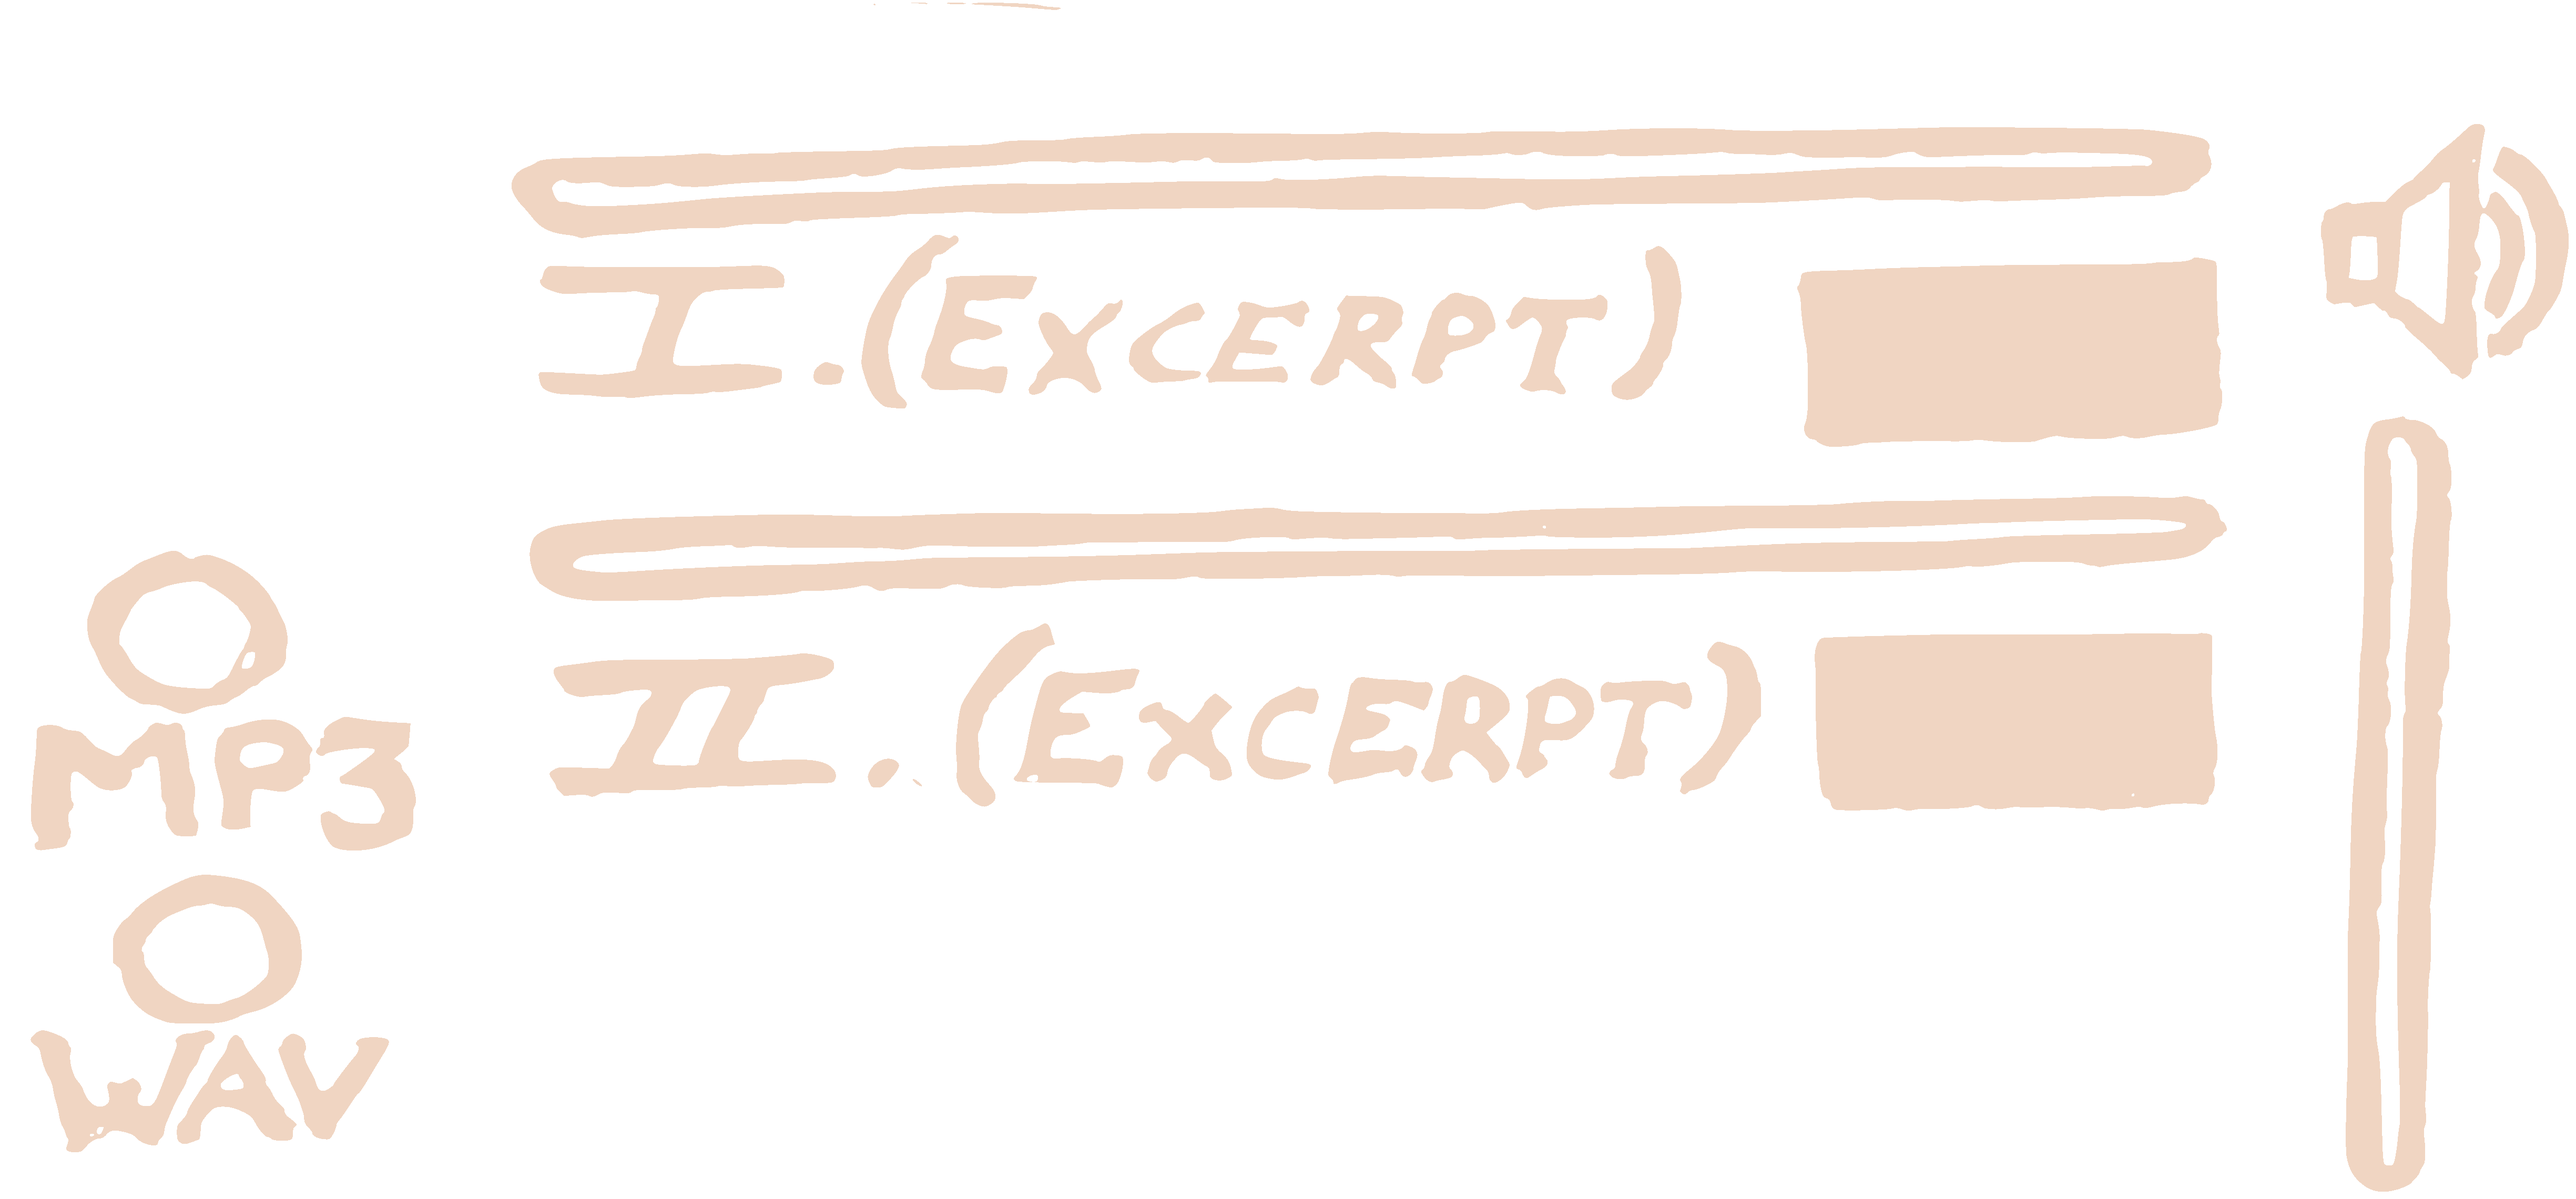
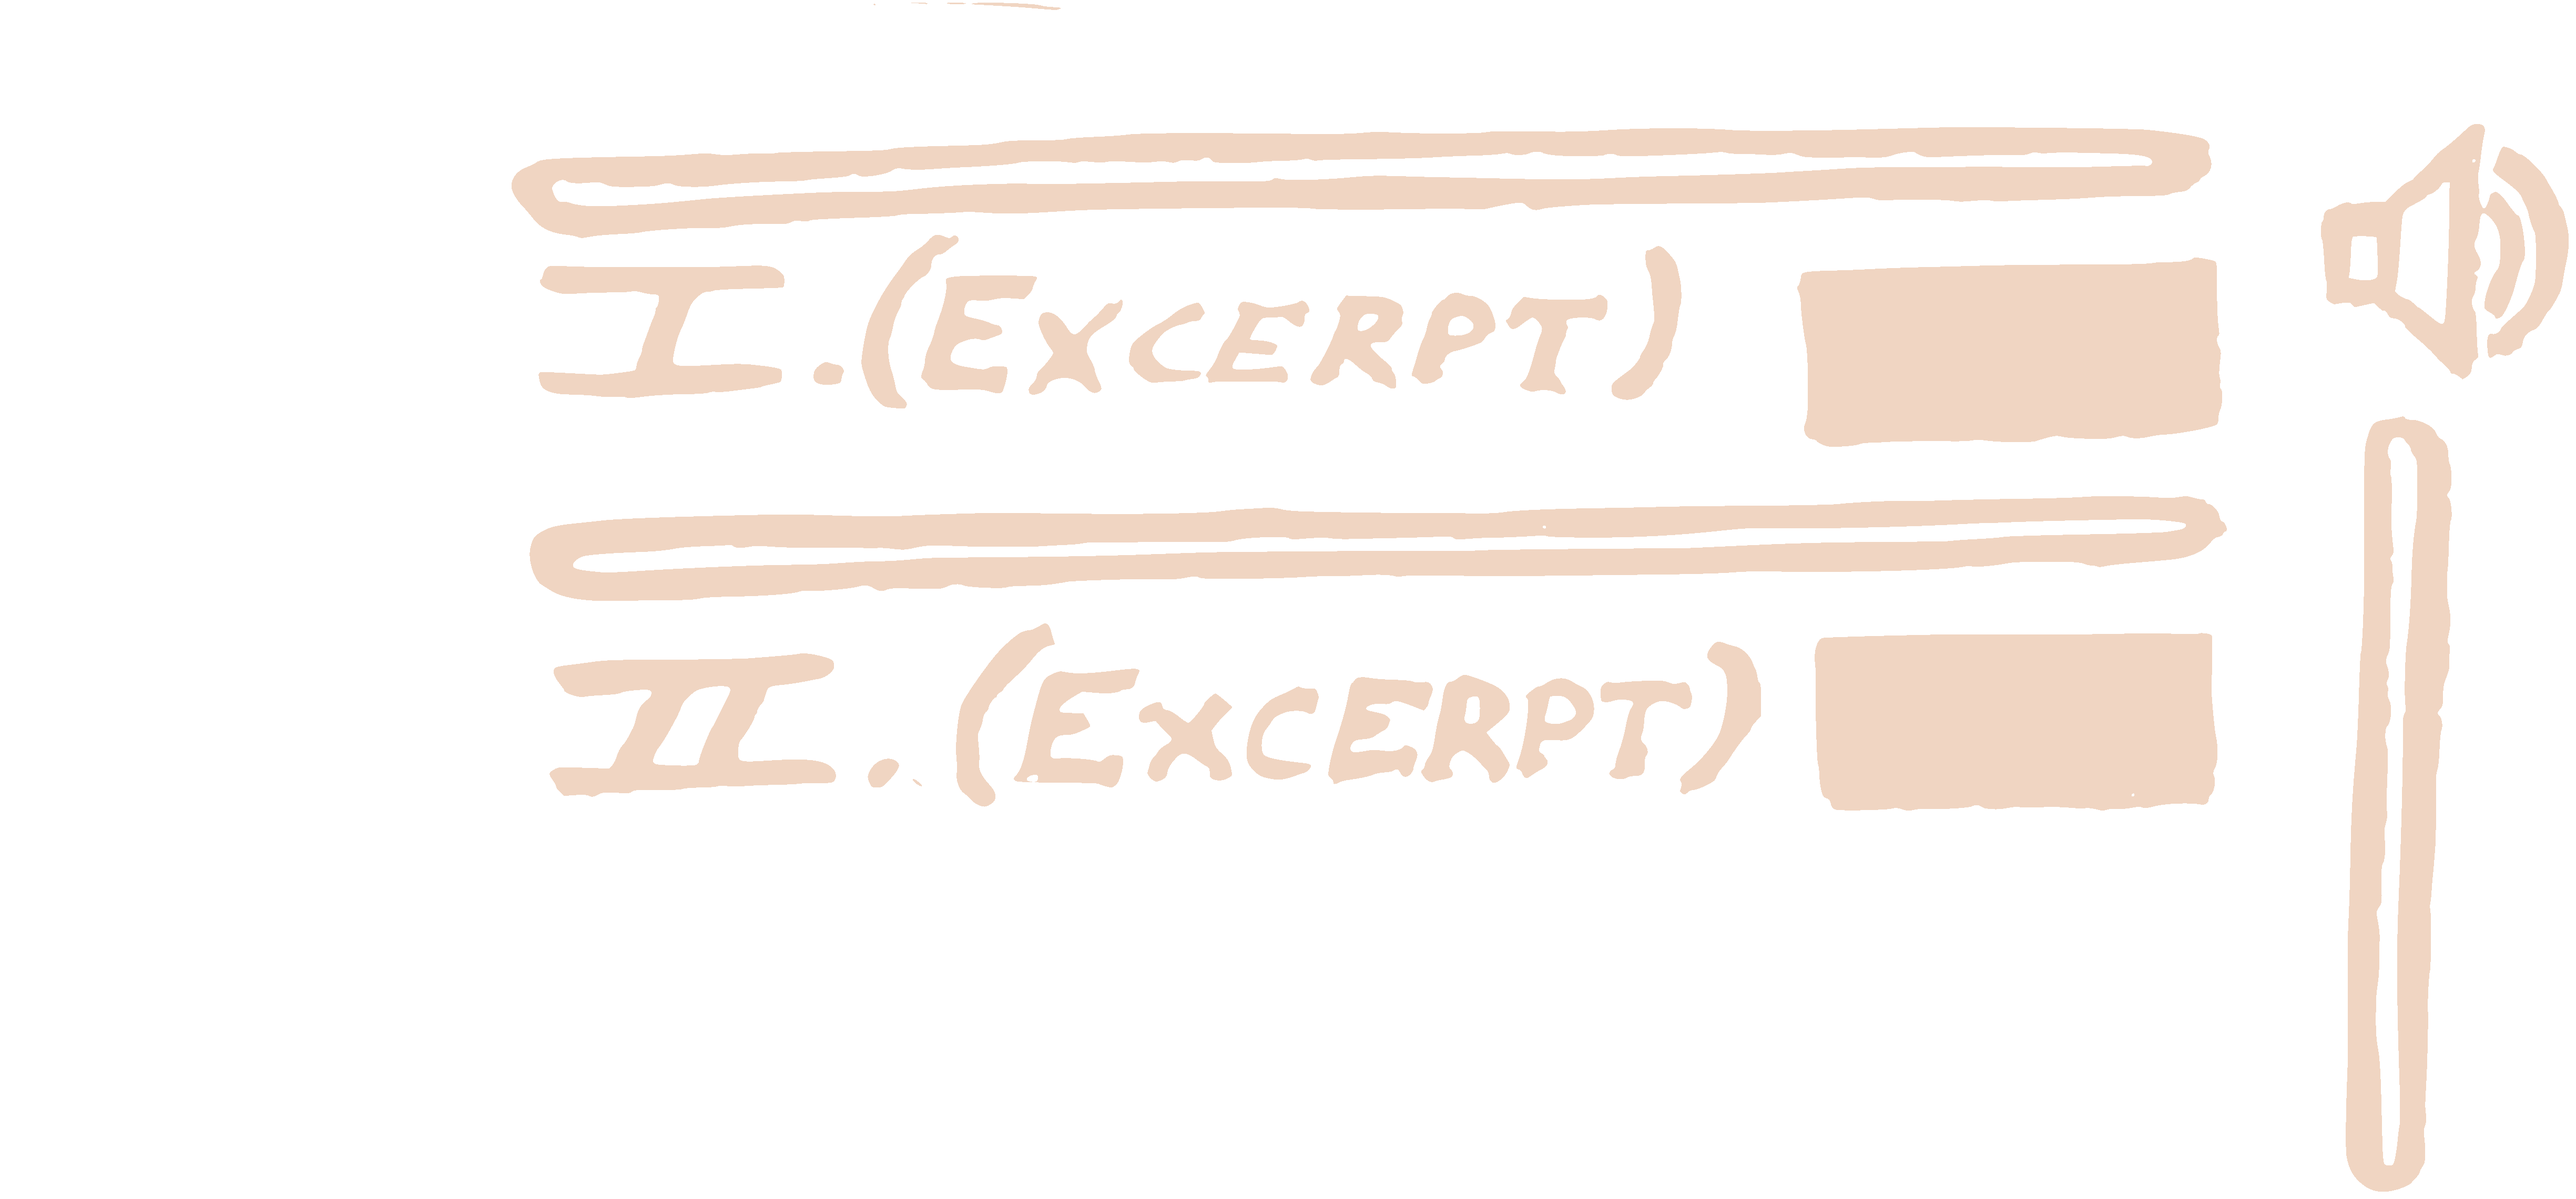
Move MP3/WAV selector to a horizontal row at the bottom; space out play buttons
Extract the MP3/WAV circle ring and the two word labels as standalone
assets, erase them from np-panel.png, and lay them out side by side
in the free strip at the bottom of the player instead of the cramped
vertical column on the left edge. That column's removal also frees
room to move the per-track play/pause buttons further from their
track rows for clearer separation.

Changed region(s): [[0.0, 0.4669, 0.1874, 0.9649]]

diff --git a/styles.css b/styles.css
@@ -424,10 +424,10 @@ nav.menu a:hover, nav.menu a:focus-visible { opacity: .6; }
   position: absolute; width: 7%; height: 16%;
   margin: 0; padding: 0; border: 0; background: none; cursor: pointer;
 }
-.new-player-playhit1 { left: 12.11%; top: 8.85%; }
-.new-player-playhit2 { left: 13.19%; top: 39.84%; }
-.new-player-play-icon1, .new-player-pause-icon1 { position: absolute; left: 12.11%; top: 8.85%; width: 7.56%; pointer-events: none; }
-.new-player-play-icon2, .new-player-pause-icon2 { position: absolute; left: 13.19%; top: 39.84%; width: 7.56%; pointer-events: none; }
+.new-player-playhit1 { left: 2.5%; top: 8.85%; }
+.new-player-playhit2 { left: 2.5%; top: 39.84%; }
+.new-player-play-icon1, .new-player-pause-icon1 { position: absolute; left: 2.5%; top: 8.85%; width: 7.56%; pointer-events: none; }
+.new-player-play-icon2, .new-player-pause-icon2 { position: absolute; left: 2.5%; top: 39.84%; width: 7.56%; pointer-events: none; }
 .new-player-pause-icon1, .new-player-pause-icon2 { display: none; }
 .new-player.is-playing1 .new-player-play-icon1 { display: none; }
 .new-player.is-playing1 .new-player-pause-icon1 { display: block; }
@@ -455,17 +455,26 @@ nav.menu a:hover, nav.menu a:focus-visible { opacity: .6; }
 }
 .new-player-counter1 { left: 69.85%; top: 21.21%; width: 16.53%; height: 15.87%; }
 .new-player-counter2 { left: 70.52%; top: 52.76%; width: 15.68%; height: 14.89%; }
+/* MP3/WAV déplacés : la colonne verticale à gauche touchait le bord
+   où le motif du cadre empiète - repris en une rangée horizontale en
+   bas du lecteur, là où il y a de la place libre. */
 .new-player-mp3, .new-player-wav {
   position: absolute; margin: 0; padding: 0; border: 0; background: none; cursor: pointer;
 }
-.new-player-mp3 { left: 0.24%; top: 44.26%; width: 11.88%; height: 27.66%; }
-.new-player-wav { left: 0.24%; top: 71.92%; width: 12.42%; height: 25.45%; }
+.new-player-mp3 { left: 4%; top: 84%; width: 19%; height: 11.5%; }
+.new-player-wav { left: 49%; top: 84%; width: 19%; height: 11.5%; }
+.new-player-ring { position: absolute; width: 5.2%; pointer-events: none; }
+.new-player-mp3-ring { left: 5%; top: 85.5%; }
+.new-player-wav-ring { left: 50%; top: 85.5%; }
+.new-player-label { position: absolute; pointer-events: none; }
+.new-player-mp3-label { left: 11.2%; top: 85.5%; width: 11.72%; }
+.new-player-wav-label { left: 56.2%; top: 85.5%; width: 11.92%; }
 .new-player-dot {
-  position: absolute; width: 8.62%; pointer-events: none; display: none;
+  position: absolute; width: 5.2%; pointer-events: none; display: none;
 }
 .new-player-dot.selected { display: block; }
-.new-player-mp3-dot { left: 3.22%; top: 45.87%; }
-.new-player-wav-dot { left: 4.22%; top: 73.09%; }
+.new-player-mp3-dot { left: 5%; top: 85.5%; }
+.new-player-wav-dot { left: 50%; top: 85.5%; }
 
 /* page argumentum : la colonne fait toute la largeur du manuscrit (1100px max) ;
    le texte courant (programme, bio, press kit...) reste calé sur son bord

diff --git a/audio-ro.html b/audio-ro.html
@@ -17,7 +17,7 @@
 <meta property="og:image:height" content="1623">
 <meta name="twitter:card" content="summary_large_image">
 <link rel="icon" type="image/png" href="favicon.png?v=2">
-<link rel="stylesheet" href="styles.css?v=278">
+<link rel="stylesheet" href="styles.css?v=279">
 </head>
 <body class="audio-page">
 <nav class="lang-selector" aria-label="Language">
@@ -35,7 +35,7 @@
         <img src="burnin-chamber-music-cover.jpg" alt="Coperta albumului: o creatură roșie cu chip neted, în formă de mască, sub un cer înstelat și o lună întunecată" class="native-audio-cover">
         <div class="native-audio-tracklist">
           <div class="new-player">
-            <img src="np-panel.png?v=3" class="new-player-bg" alt="">
+            <img src="np-panel.png?v=4" class="new-player-bg" alt="">
             <button type="button" class="new-player-playhit1" aria-label="Redare sau pauză piesa I"></button>
             <img src="np-play.png?v=1" class="new-player-play-icon1" alt="">
             <img src="np-pause.png?v=1" class="new-player-pause-icon1" alt="">
@@ -50,8 +50,12 @@
             <p class="new-player-counter new-player-counter2">0:00 / 0:00</p>
             <div class="new-player-volume" role="slider" aria-label="Volum" aria-valuemin="0" aria-valuemax="100" aria-valuenow="100"></div>
             <img src="np-knob.png?v=3" class="new-player-knob new-player-volume-knob" alt="">
+            <img src="np-ring.png?v=1" class="new-player-ring new-player-mp3-ring" alt="">
+            <img src="np-mp3-label.png?v=1" class="new-player-label new-player-mp3-label" alt="">
             <button type="button" class="new-player-mp3" aria-label="Calitate MP3"></button>
             <img src="np-dot-red.png?v=3" class="new-player-dot new-player-mp3-dot selected" alt="">
+            <img src="np-ring.png?v=1" class="new-player-ring new-player-wav-ring" alt="">
+            <img src="np-wav-label.png?v=1" class="new-player-label new-player-wav-label" alt="">
             <button type="button" class="new-player-wav" aria-label="Calitate WAV"></button>
             <img src="np-dot-red.png?v=3" class="new-player-dot new-player-wav-dot" alt="">
             <audio class="new-player-audio1" preload="metadata" data-mp3="audio/burnin-chamber-music-i-excerpt.mp3" data-wav="audio/burnin-chamber-music-i-excerpt.wav" src="audio/burnin-chamber-music-i-excerpt.mp3"></audio>

diff --git a/audio-es.html b/audio-es.html
@@ -17,7 +17,7 @@
 <meta property="og:image:height" content="1623">
 <meta name="twitter:card" content="summary_large_image">
 <link rel="icon" type="image/png" href="favicon.png?v=2">
-<link rel="stylesheet" href="styles.css?v=278">
+<link rel="stylesheet" href="styles.css?v=279">
 </head>
 <body class="audio-page">
 <nav class="lang-selector" aria-label="Language">
@@ -35,7 +35,7 @@
         <img src="burnin-chamber-music-cover.jpg" alt="Portada del álbum: una criatura roja de rostro liso en forma de máscara, bajo un cielo estrellado y una luna oscura" class="native-audio-cover">
         <div class="native-audio-tracklist">
           <div class="new-player">
-            <img src="np-panel.png?v=3" class="new-player-bg" alt="">
+            <img src="np-panel.png?v=4" class="new-player-bg" alt="">
             <button type="button" class="new-player-playhit1" aria-label="Reproducir o pausar pista I"></button>
             <img src="np-play.png?v=1" class="new-player-play-icon1" alt="">
             <img src="np-pause.png?v=1" class="new-player-pause-icon1" alt="">
@@ -50,8 +50,12 @@
             <p class="new-player-counter new-player-counter2">0:00 / 0:00</p>
             <div class="new-player-volume" role="slider" aria-label="Volumen" aria-valuemin="0" aria-valuemax="100" aria-valuenow="100"></div>
             <img src="np-knob.png?v=3" class="new-player-knob new-player-volume-knob" alt="">
+            <img src="np-ring.png?v=1" class="new-player-ring new-player-mp3-ring" alt="">
+            <img src="np-mp3-label.png?v=1" class="new-player-label new-player-mp3-label" alt="">
             <button type="button" class="new-player-mp3" aria-label="Calidad MP3"></button>
             <img src="np-dot-red.png?v=3" class="new-player-dot new-player-mp3-dot selected" alt="">
+            <img src="np-ring.png?v=1" class="new-player-ring new-player-wav-ring" alt="">
+            <img src="np-wav-label.png?v=1" class="new-player-label new-player-wav-label" alt="">
             <button type="button" class="new-player-wav" aria-label="Calidad WAV"></button>
             <img src="np-dot-red.png?v=3" class="new-player-dot new-player-wav-dot" alt="">
             <audio class="new-player-audio1" preload="metadata" data-mp3="audio/burnin-chamber-music-i-excerpt.mp3" data-wav="audio/burnin-chamber-music-i-excerpt.wav" src="audio/burnin-chamber-music-i-excerpt.mp3"></audio>

diff --git a/audio-fr.html b/audio-fr.html
@@ -17,7 +17,7 @@
 <meta property="og:image:height" content="1623">
 <meta name="twitter:card" content="summary_large_image">
 <link rel="icon" type="image/png" href="favicon.png?v=2">
-<link rel="stylesheet" href="styles.css?v=278">
+<link rel="stylesheet" href="styles.css?v=279">
 </head>
 <body class="audio-page">
 <nav class="lang-selector" aria-label="Language">
@@ -35,7 +35,7 @@
         <img src="burnin-chamber-music-cover.jpg" alt="Pochette de l'album : une créature rouge au visage lisse en forme de masque, sous un ciel étoilé et une lune sombre" class="native-audio-cover">
         <div class="native-audio-tracklist">
           <div class="new-player">
-            <img src="np-panel.png?v=3" class="new-player-bg" alt="">
+            <img src="np-panel.png?v=4" class="new-player-bg" alt="">
             <button type="button" class="new-player-playhit1" aria-label="Lecture ou pause piste I"></button>
             <img src="np-play.png?v=1" class="new-player-play-icon1" alt="">
             <img src="np-pause.png?v=1" class="new-player-pause-icon1" alt="">
@@ -50,8 +50,12 @@
             <p class="new-player-counter new-player-counter2">0:00 / 0:00</p>
             <div class="new-player-volume" role="slider" aria-label="Volume" aria-valuemin="0" aria-valuemax="100" aria-valuenow="100"></div>
             <img src="np-knob.png?v=3" class="new-player-knob new-player-volume-knob" alt="">
+            <img src="np-ring.png?v=1" class="new-player-ring new-player-mp3-ring" alt="">
+            <img src="np-mp3-label.png?v=1" class="new-player-label new-player-mp3-label" alt="">
             <button type="button" class="new-player-mp3" aria-label="Qualité MP3"></button>
             <img src="np-dot-red.png?v=3" class="new-player-dot new-player-mp3-dot selected" alt="">
+            <img src="np-ring.png?v=1" class="new-player-ring new-player-wav-ring" alt="">
+            <img src="np-wav-label.png?v=1" class="new-player-label new-player-wav-label" alt="">
             <button type="button" class="new-player-wav" aria-label="Qualité WAV"></button>
             <img src="np-dot-red.png?v=3" class="new-player-dot new-player-wav-dot" alt="">
             <audio class="new-player-audio1" preload="metadata" data-mp3="audio/burnin-chamber-music-i-excerpt.mp3" data-wav="audio/burnin-chamber-music-i-excerpt.wav" src="audio/burnin-chamber-music-i-excerpt.mp3"></audio>

diff --git a/audio.html b/audio.html
@@ -17,7 +17,7 @@
 <meta property="og:image:height" content="1623">
 <meta name="twitter:card" content="summary_large_image">
 <link rel="icon" type="image/png" href="favicon.png?v=2">
-<link rel="stylesheet" href="styles.css?v=278">
+<link rel="stylesheet" href="styles.css?v=279">
 </head>
 <body class="audio-page">
 <nav class="lang-selector" aria-label="Language">
@@ -35,7 +35,7 @@
         <img src="burnin-chamber-music-cover.jpg" alt="Album cover: a red creature with a smooth, mask-like face against a starry night sky and a dark moon" class="native-audio-cover">
         <div class="native-audio-tracklist">
           <div class="new-player">
-            <img src="np-panel.png?v=3" class="new-player-bg" alt="">
+            <img src="np-panel.png?v=4" class="new-player-bg" alt="">
             <button type="button" class="new-player-playhit1" aria-label="Play or pause track I"></button>
             <img src="np-play.png?v=1" class="new-player-play-icon1" alt="">
             <img src="np-pause.png?v=1" class="new-player-pause-icon1" alt="">
@@ -50,8 +50,12 @@
             <p class="new-player-counter new-player-counter2">0:00 / 0:00</p>
             <div class="new-player-volume" role="slider" aria-label="Volume" aria-valuemin="0" aria-valuemax="100" aria-valuenow="100"></div>
             <img src="np-knob.png?v=3" class="new-player-knob new-player-volume-knob" alt="">
+            <img src="np-ring.png?v=1" class="new-player-ring new-player-mp3-ring" alt="">
+            <img src="np-mp3-label.png?v=1" class="new-player-label new-player-mp3-label" alt="">
             <button type="button" class="new-player-mp3" aria-label="MP3 quality"></button>
             <img src="np-dot-red.png?v=3" class="new-player-dot new-player-mp3-dot selected" alt="">
+            <img src="np-ring.png?v=1" class="new-player-ring new-player-wav-ring" alt="">
+            <img src="np-wav-label.png?v=1" class="new-player-label new-player-wav-label" alt="">
             <button type="button" class="new-player-wav" aria-label="WAV quality"></button>
             <img src="np-dot-red.png?v=3" class="new-player-dot new-player-wav-dot" alt="">
             <audio class="new-player-audio1" preload="metadata" data-mp3="audio/burnin-chamber-music-i-excerpt.mp3" data-wav="audio/burnin-chamber-music-i-excerpt.wav" src="audio/burnin-chamber-music-i-excerpt.mp3"></audio>
